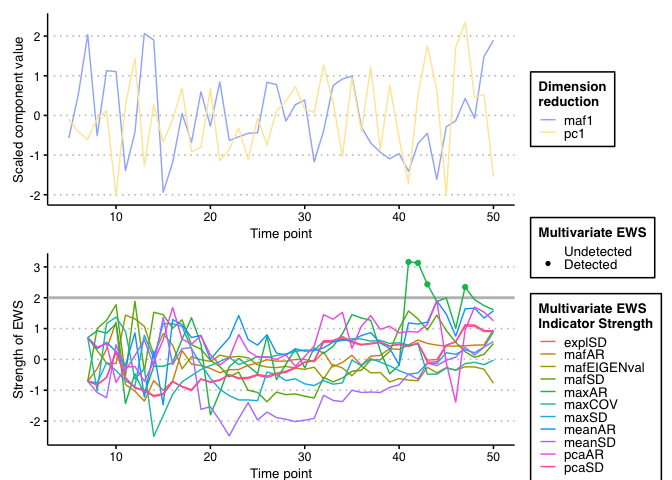
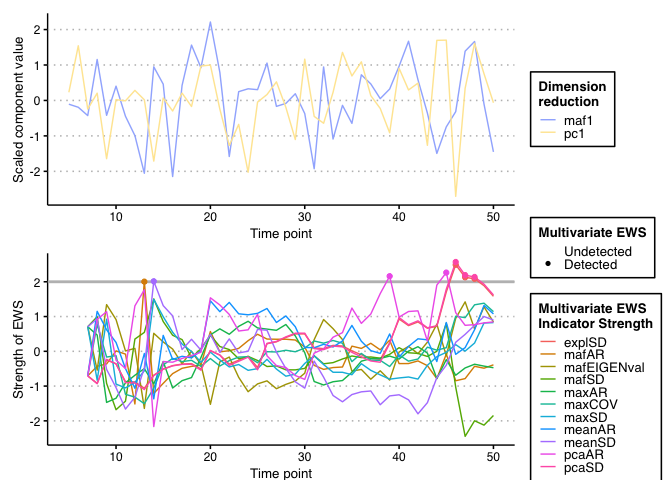
expanded examples

diff --git a/README.md b/README.md
@@ -124,6 +124,8 @@ metapopulation. The following code shows how we would achieve these
 using *EWSmethods*.
 
 ``` r
+set.seed(123)
+
 octopus_spp_data <- matrix(nrow = 50, ncol = 5)
 octopus_spp_data <- as.data.frame(cbind("time"=seq(1:50),sapply(1:dim(octopus_spp_data)[2], function(x){octopus_spp_data[,x] <- rnorm(50,mean=500,sd=200)}))) #create our hypothetical, uncollapsing ecosystem
 
@@ -159,7 +161,7 @@ skylark_ewsnet <- ewsnet_predict(skylark_data$abundance, noise_type = "W", ensem
 
 print(skylark_ewsnet)
 #>            pred no_trans_prob smooth_trans_prob critical_trans_prob
-#> 1 No Transition     0.4779795         0.2414682           0.2805523
+#> 1 No Transition     0.3322308         0.4519279           0.2158413
 ```
 
 ## References
